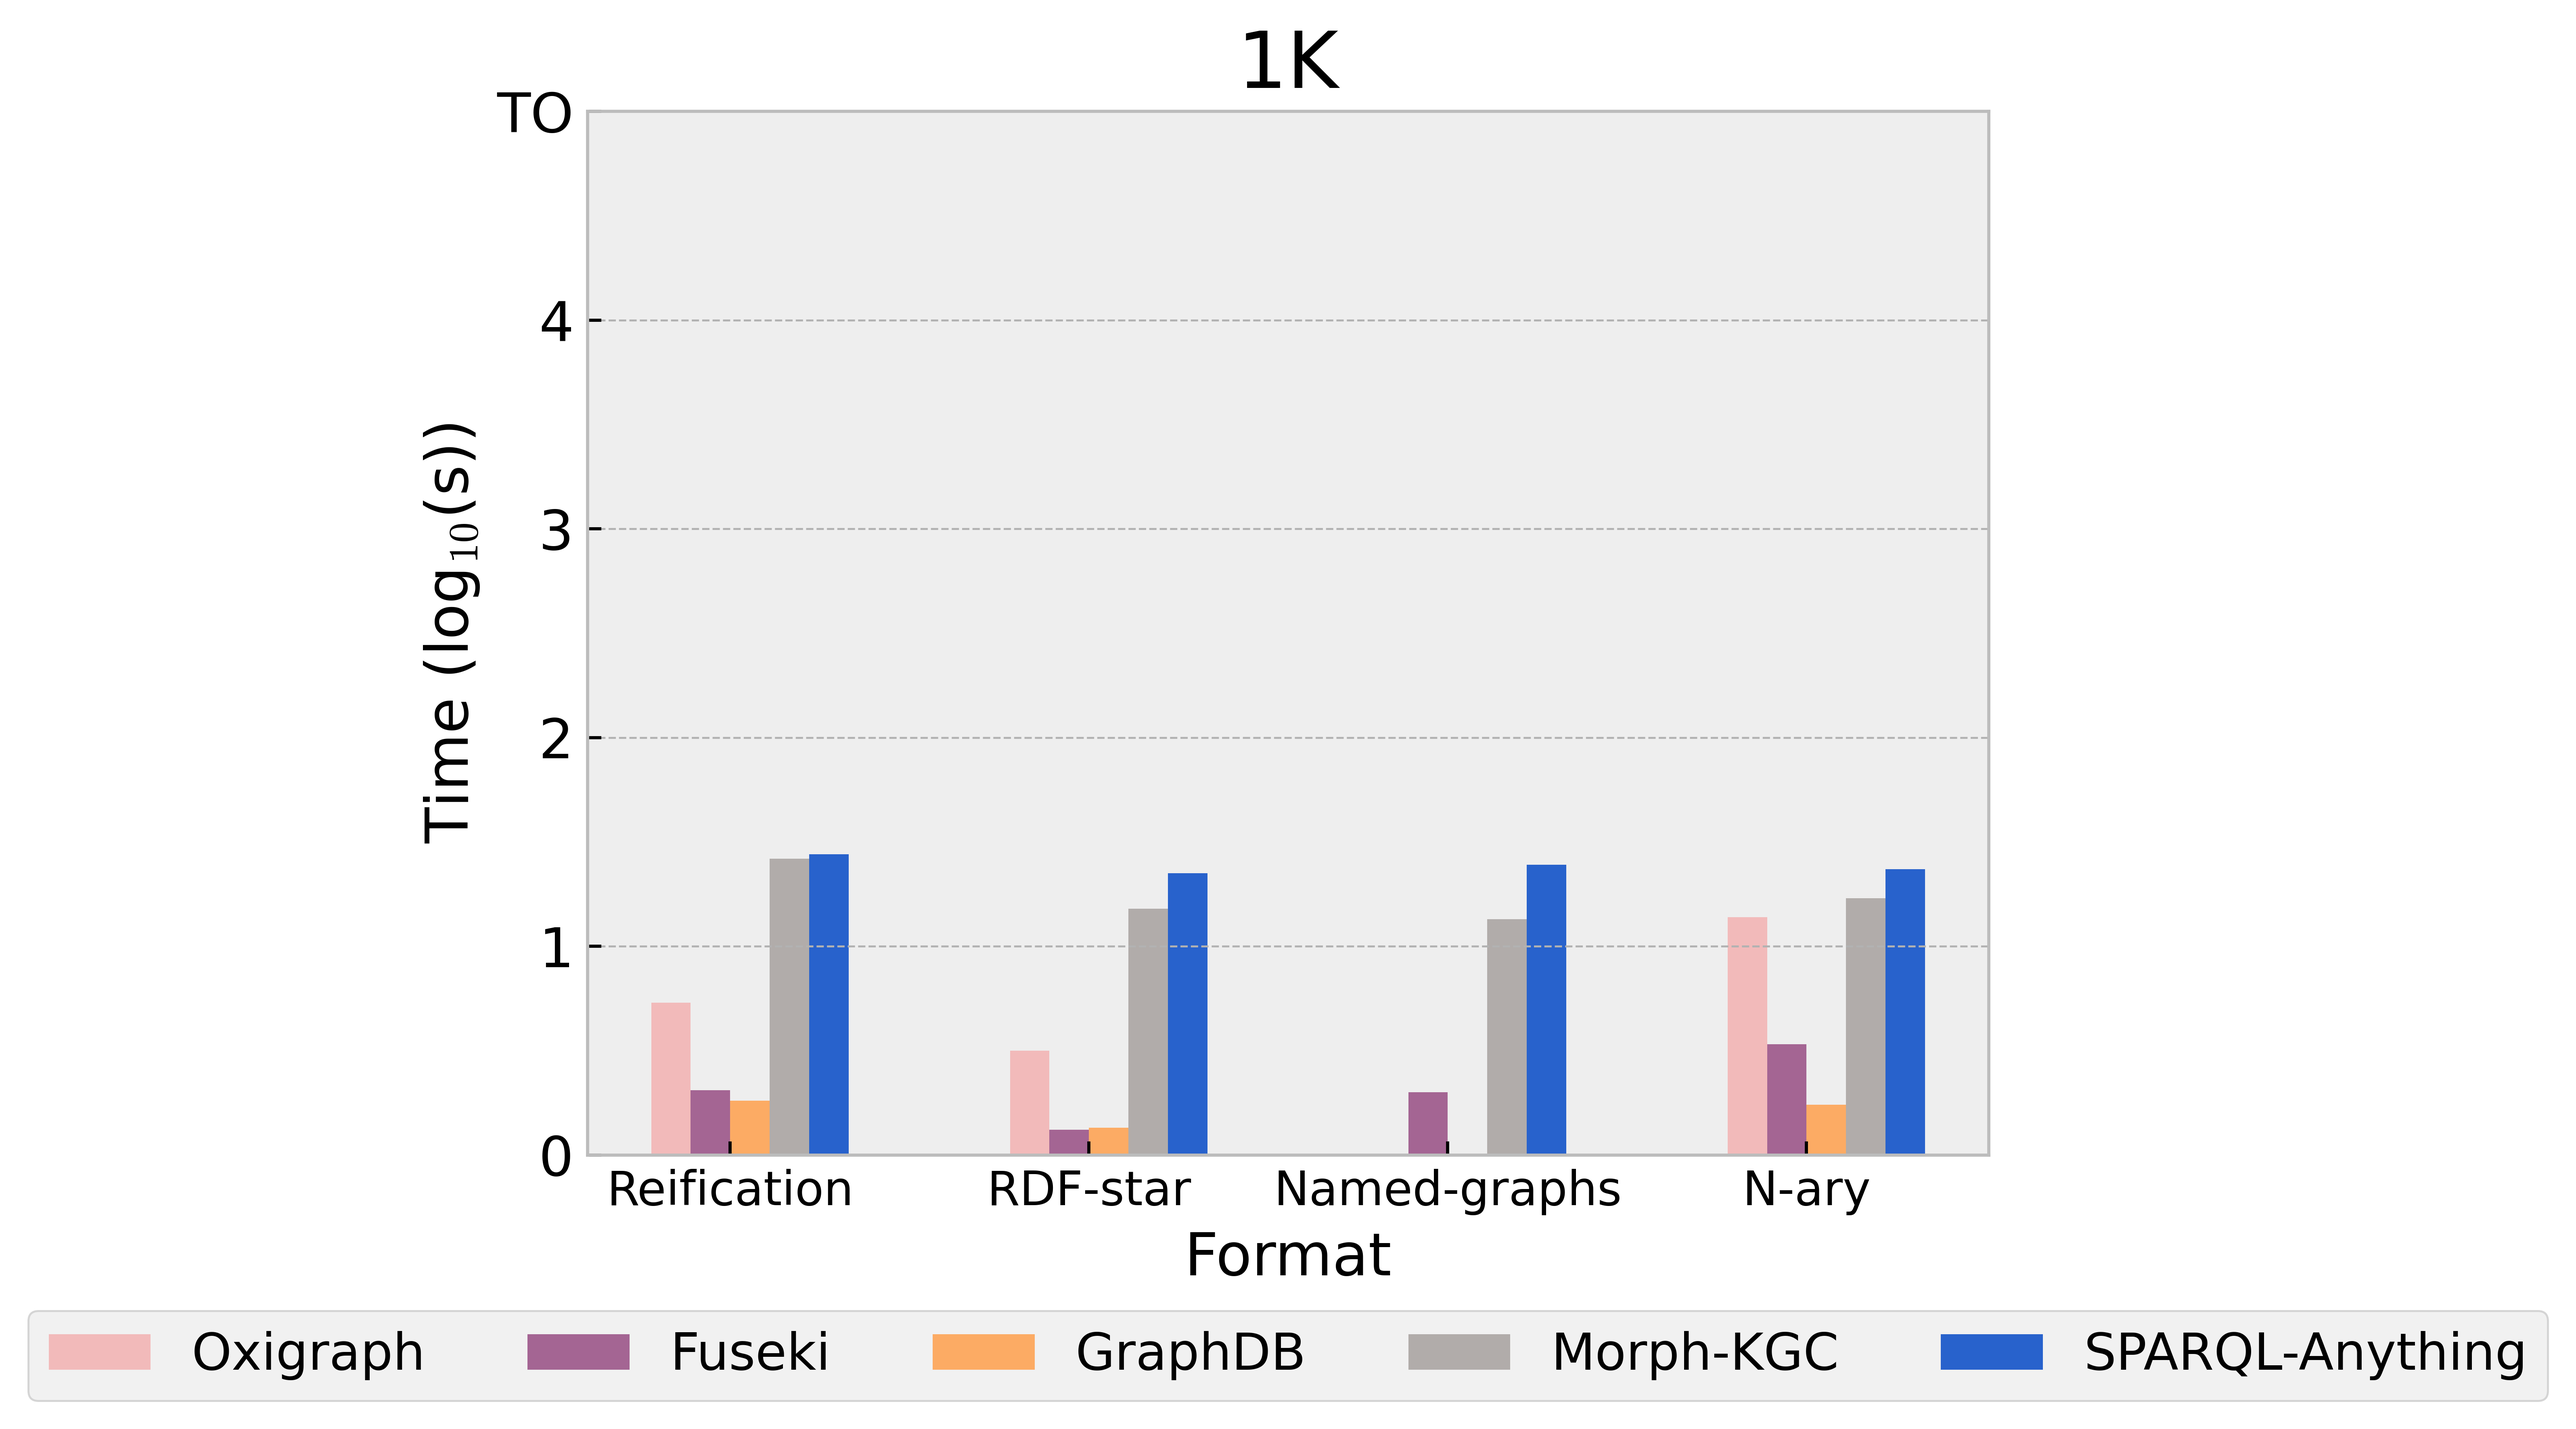
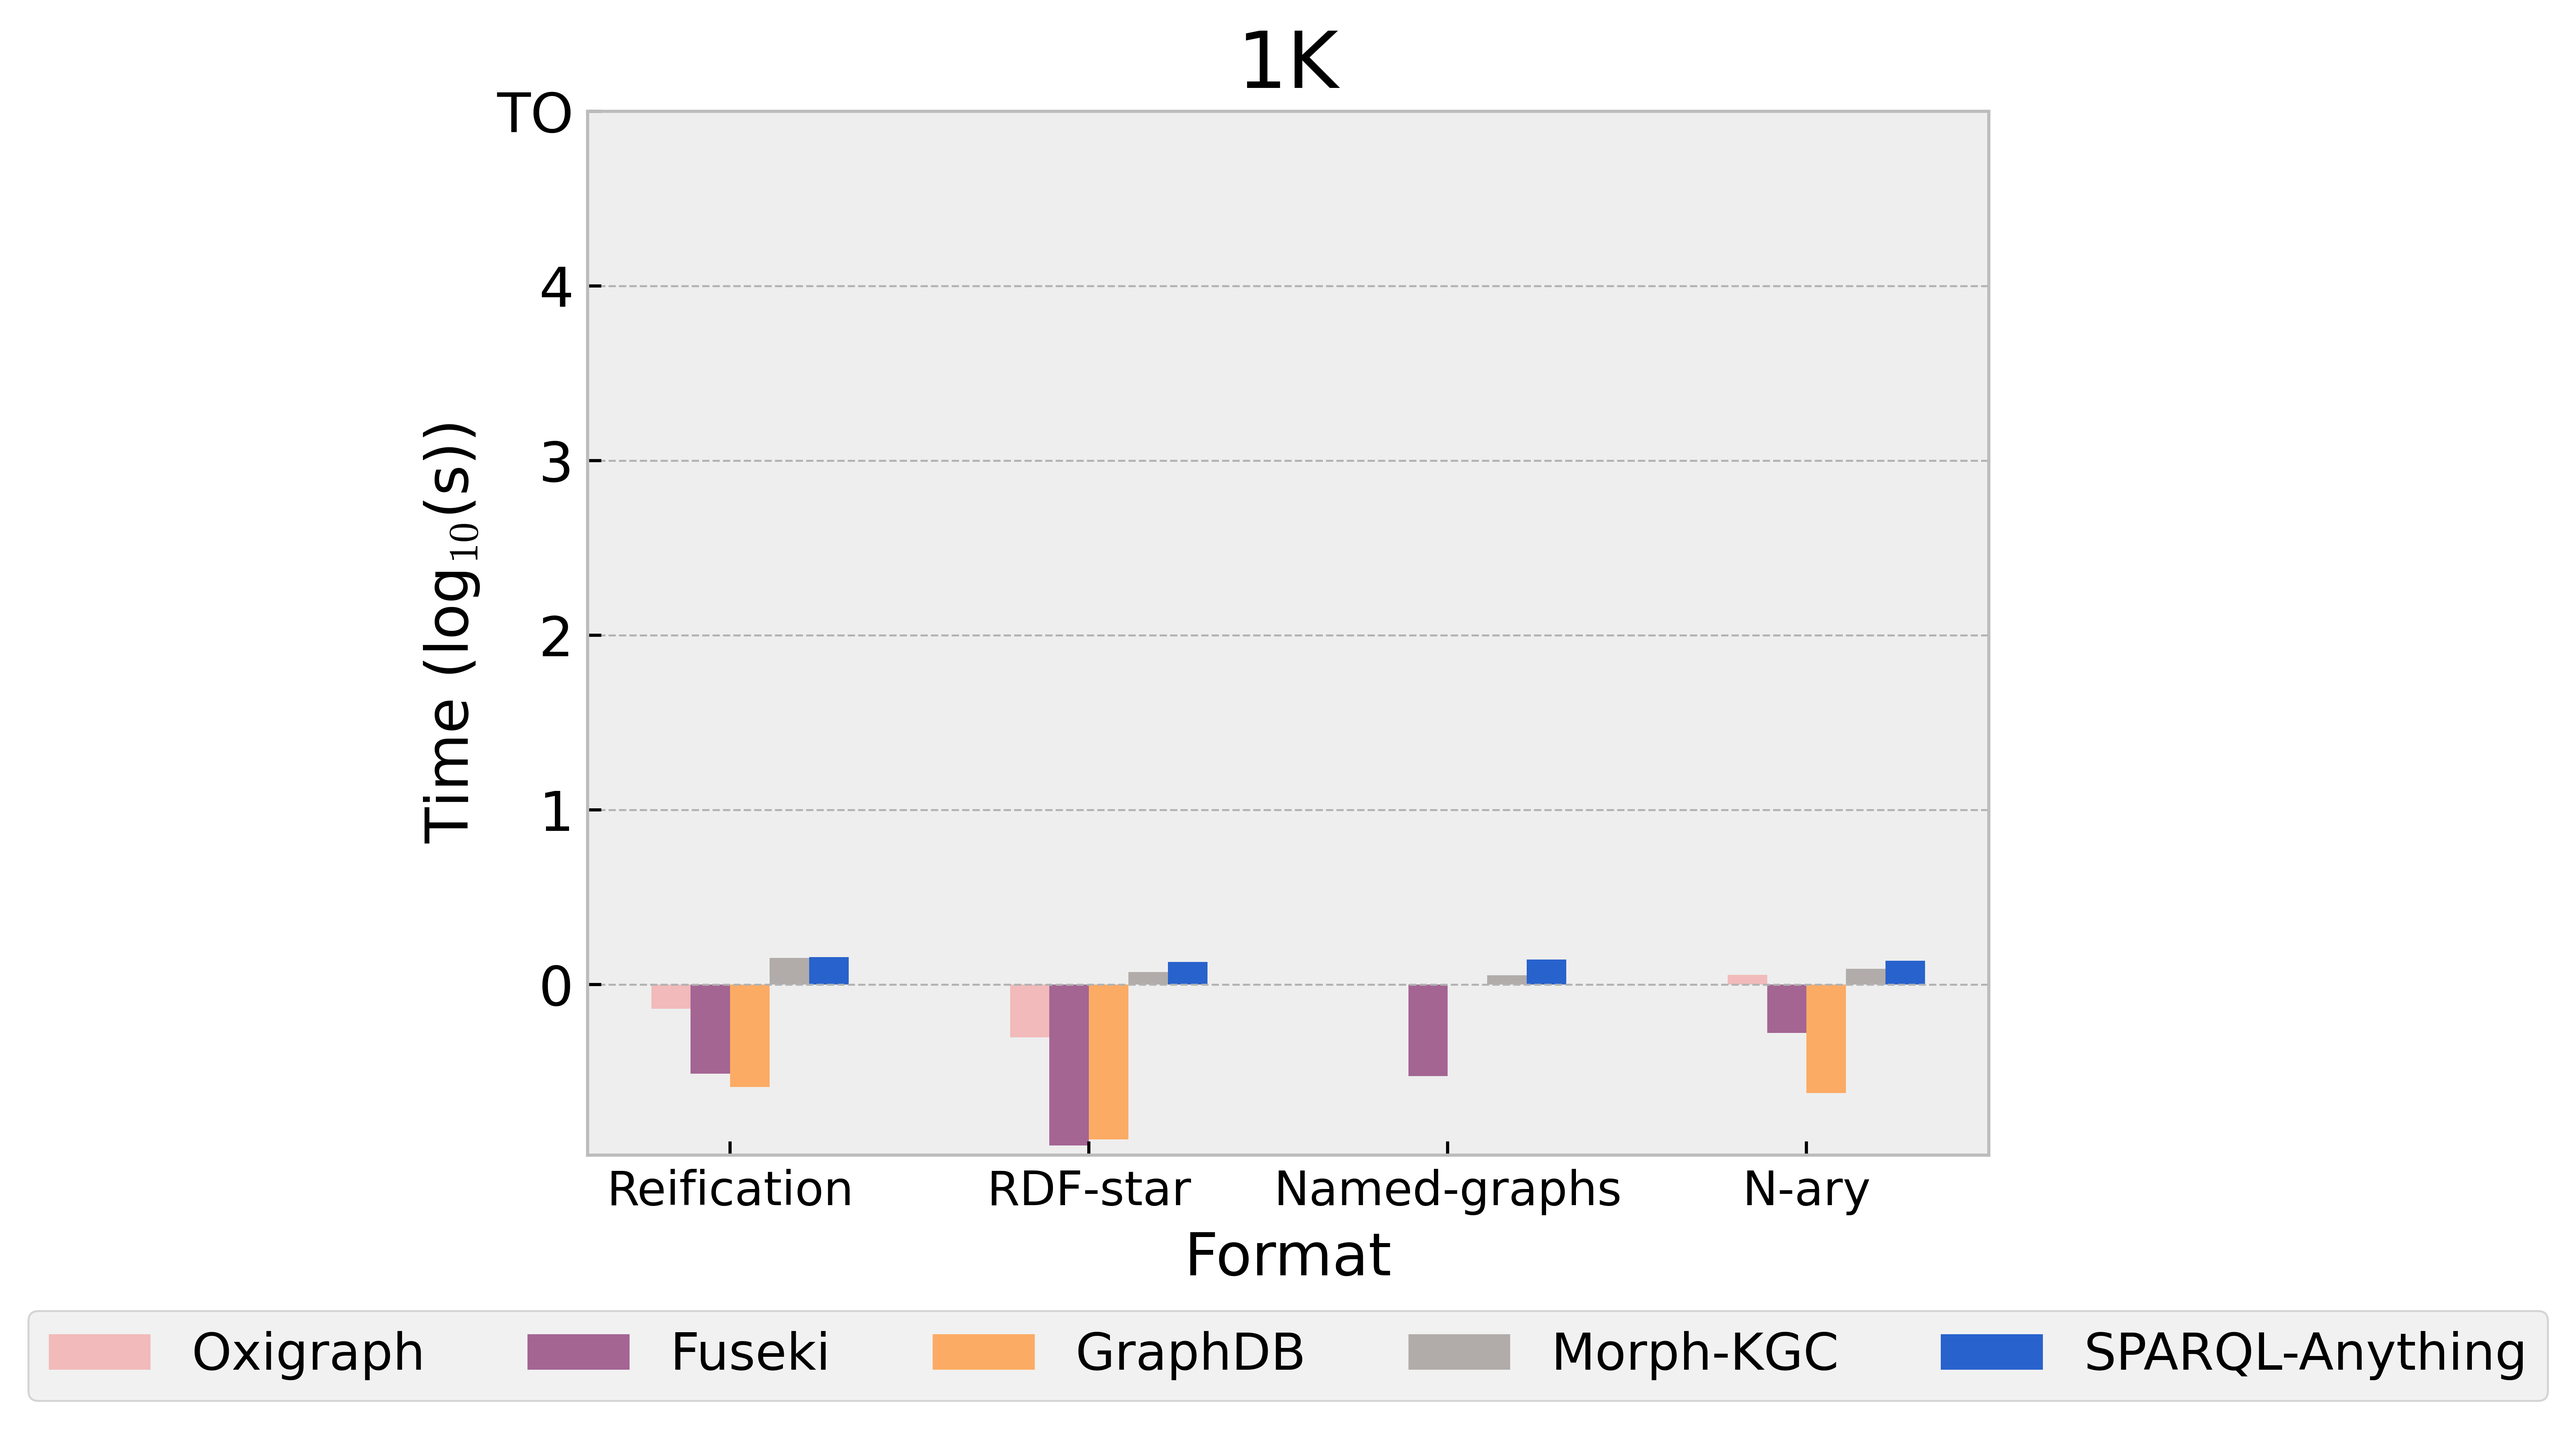
added results

diff --git a/coopis-results/time-plot.py b/coopis-results/time-plot.py
@@ -1,0 +1,92 @@
+import matplotlib.pyplot as plt
+import numpy as np
+import pandas as pd
+import math
+
+plt.style.use('bmh')
+
+
+def organize_data(data, technique, mappingsEG_TS):
+    # technique = ['Reification', 'RDF-star', 'Named-graphs', 'N-ary']
+    # mappingsEG_TS = ['Oxigraph', 'Fuseki']
+    ordered_data = pd.DataFrame(index=mappingsEG_TS)
+    ordered_data = data[1:]
+    ordered_data.columns = technique
+    ordered_data.replace(np.nan, 0)
+    print(ordered_data)
+    for i in range(0, len(ordered_data.index)):
+        for j in range(0, len(ordered_data.columns)):
+            new_data = float(ordered_data.iloc[i][j])
+            ordered_data.iloc[i][j]=np.log10(new_data)
+
+    #ordered_data=np.log10(ordered_data)
+    print(ordered_data)
+    return ordered_data
+
+
+def plot(data, scale):
+    # Create dataframe
+    technique = ['Reification', 'RDF-star', 'Named-graphs', 'N-ary']
+    mappingsEG_TS = ['Oxigraph', 'Fuseki', 'GraphDB', 'Morph-KGC', 'SPARQL-Anything']
+    data = np.transpose(data)
+    ordered_data = organize_data(data, [x.lower() for x in technique], mappingsEG_TS)
+    # print("+++++++++++++++++++++")
+    print(ordered_data)
+    # np.log10(ordered_data)
+    barWidth = 0.11
+    r1 = np.arange(len(ordered_data.columns))
+    r2 = [x + barWidth for x in r1]
+    r3 = [x + barWidth * 2 for x in r1]
+    r4 = [x + barWidth * 3 for x in r1]
+    r5 = [x + barWidth * 4 for x in r1]
+    # r6 = [x + barWidth * 5 for x in r1]
+    # r7 = [x + barWidth * 6 for x in r1]
+    # r9 = [x + barWidth * 8 for x in r1]
+    # r10 = [x + barWidth * 9 for x in r1]
+
+    plt.bar(r1, ordered_data.values.tolist()[0], width=barWidth, color='#F2BABA',  # F2BABA
+            label='Oxigraph')
+    plt.bar(r2, ordered_data.values.tolist()[1], width=barWidth, color='#A46593',  # A46593
+            label='Fuseki', )
+    plt.bar(r3, ordered_data.values.tolist()[2], width=barWidth, color='#FCAB64',  # B1ACAA
+            label='GraphDB')
+    plt.bar(r4, ordered_data.values.tolist()[3], width=barWidth, color='#B1ACAA',  # B1ACAA
+            label='Morph-KGC')
+    plt.bar(r5, ordered_data.values.tolist()[4], width=barWidth, color='#2862CC',  # 2862CC
+            label='SPARQL-Anything')
+
+    plt.xticks([r + barWidth * 1.5 for r in range(len(r1))], map(lambda each: each.strip(""), technique),
+               fontsize=12)
+    plt.yticks(np.arange(0, 6), ('0', '1', '2', '3', '4', 'TO'), fontsize=14)
+    plt.ylim(top=5)
+    plt.ylabel("Time (log$_{10}$(s))", fontsize=15)
+    plt.xlabel("Format", fontsize=15)
+    plt.title(scale, fontsize=20)
+    plt.legend(mappingsEG_TS, loc='lower center', ncol=6, bbox_to_anchor=[0.5, -0.26], fontsize=13)
+    # plt.legend(engines, loc='lower center', prop={'size': 10}, ncol=6, bbox_to_anchor=(0.5, -0.28))
+    # plt.grid(False)
+    plt.grid(axis='x')
+
+    # plt.show()
+    plt.savefig("./figures/time_" + scale.lower() + ".png", bbox_inches='tight', dpi=700)
+
+    plt.clf()
+
+    print("Finished: 'figures/time_" + scale + "'")
+
+
+def handler():
+    # scales = ['GTFS-1', 'GTFS-10', 'GTFS-100', 'GTFS-1000']
+    scales = ['1K','10K', '100K', '1M']
+    for scale in scales:
+        plot(pd.read_csv("./" + scale + ".csv"), scale)
+        # if scale == 'GTFS-100':
+        #     plot100(pd.read_csv("./" + scale + ".csv"), scale)
+        # elif scale == 'GTFS-1000':
+        #     plot1000(pd.read_csv("./" + scale + ".csv"), scale)
+        # else:
+        #     plot(pd.read_csv("./"+ scale + ".csv"), scale)
+
+
+if __name__ == "__main__":
+    handler()
